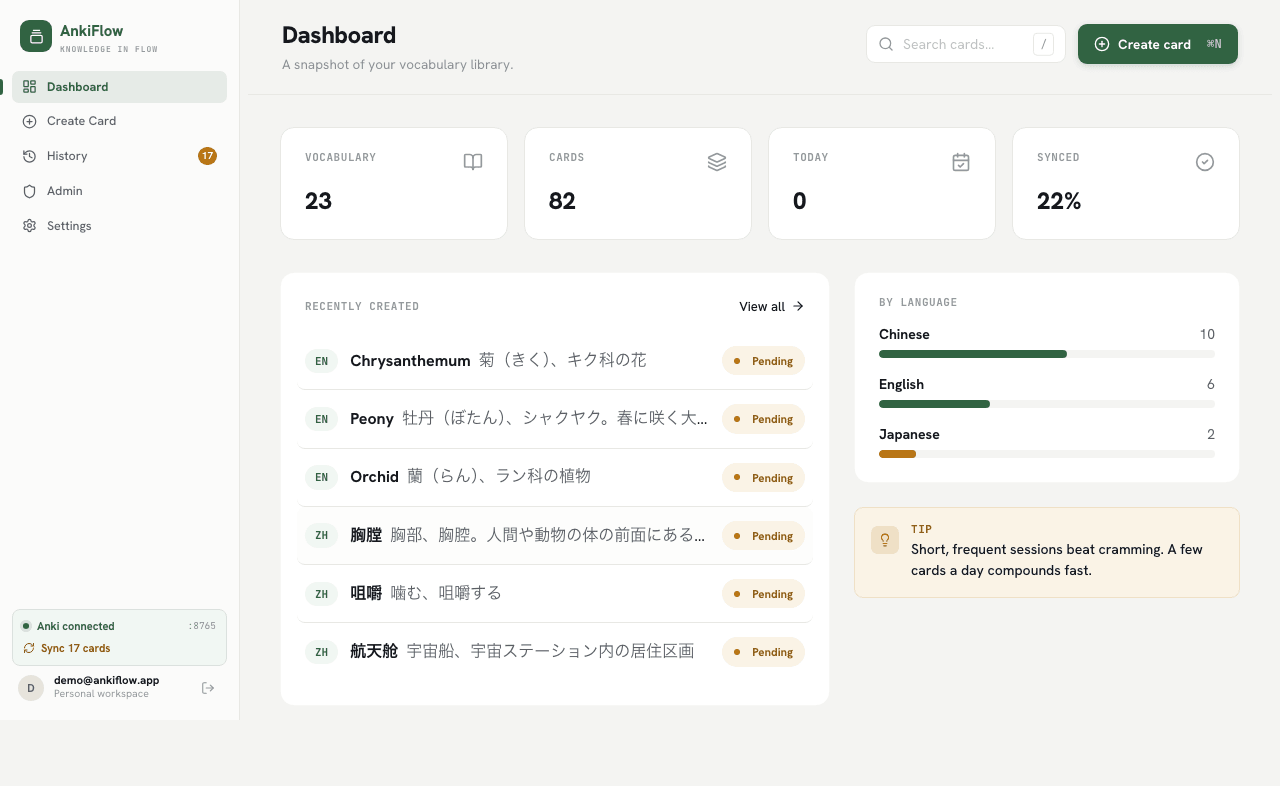
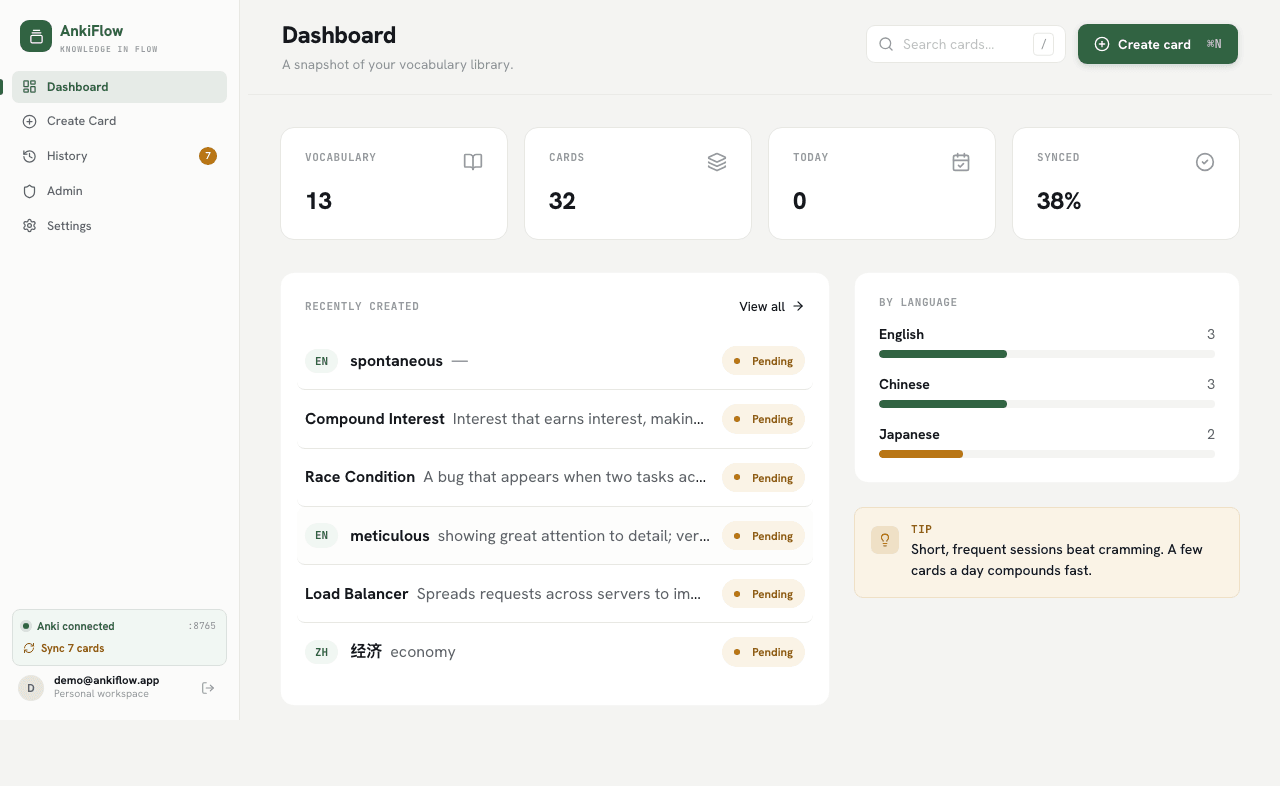
fix: デモアカウントを整理し中立データのみで再撮影、DEMO変数を文書化

diff --git a/scripts/seed-demo.ts b/scripts/seed-demo.ts
@@ -9,8 +9,10 @@
  *   DEMO_EMAIL   — the demo account email (its Auth user must already exist)
  *
  * Usage:
- *   npm run seed:demo            → seed master defaults (idempotent) + demo entries
- *   npm run seed:demo -- --clean → delete ONLY the demo entries created by this script
+ *   npm run seed:demo             → seed master defaults (idempotent) + demo entries
+ *   npm run seed:demo -- --reset  → FIRST delete every entry this script did NOT create
+ *                                   (so captures show only the curated demo set), then seed
+ *   npm run seed:demo -- --clean  → delete ONLY the demo entries created by this script
  *
  * Idempotent: every entry uses a deterministic document ID (`demo__<uid>__<slug>`),
  * so re-running overwrites in place instead of creating duplicates. Timestamps are
@@ -334,6 +336,21 @@ async function cleanEntries(uid: string): Promise<void> {
     console.log(`  ✅ ${DEMO_ENTRIES.length} demo entries + script-created General deck removed. (Other master data untouched.)`);
 }
 
+/**
+ * Delete every entry in the demo account that this script did NOT create, so captures
+ * show only the curated demo dataset (deterministic, and the README's "neutral sample
+ * data" caption stays true). Destructive — gated behind the explicit `--reset` flag and
+ * the user's confirmation.
+ */
+async function purgeForeignEntries(uid: string): Promise<void> {
+    console.log('\n🧨 --reset: removing entries NOT created by this script...');
+    const snap = await db.collection('entries').where('user_id', '==', uid).get();
+    const prefix = `demo__${uid}__`;
+    const foreign = snap.docs.filter(d => !d.id.startsWith(prefix));
+    await Promise.all(foreign.map(d => d.ref.delete()));
+    console.log(`  ✅ Removed ${foreign.length} non-demo entr${foreign.length === 1 ? 'y' : 'ies'} (kept ${snap.size - foreign.length} demo).`);
+}
+
 async function main(): Promise<void> {
     const email = process.env.DEMO_EMAIL!.trim();
     console.log('🚀 Demo seed');
@@ -350,6 +367,10 @@ async function main(): Promise<void> {
         await cleanEntries(uid);
         console.log('\n✨ Clean complete!');
         process.exit(0);
+    }
+
+    if (process.argv.includes('--reset')) {
+        await purgeForeignEntries(uid);
     }
 
     console.log('\n📦 Ensuring master defaults (idempotent)...');

diff --git a/verify/unit/env-example-contract.test.ts b/verify/unit/env-example-contract.test.ts
@@ -8,6 +8,8 @@ const EXPECTED_ENV_NAMES = [
   'ADMIN_EMAIL',
   'ANTHROPIC_API_KEY',
   'CRON_SECRET',
+  'DEMO_EMAIL',
+  'DEMO_PASSWORD',
   'FIREBASE_ADMIN_CLIENT_EMAIL',
   'FIREBASE_ADMIN_PRIVATE_KEY',
   'FIREBASE_ADMIN_PROJECT_ID',
